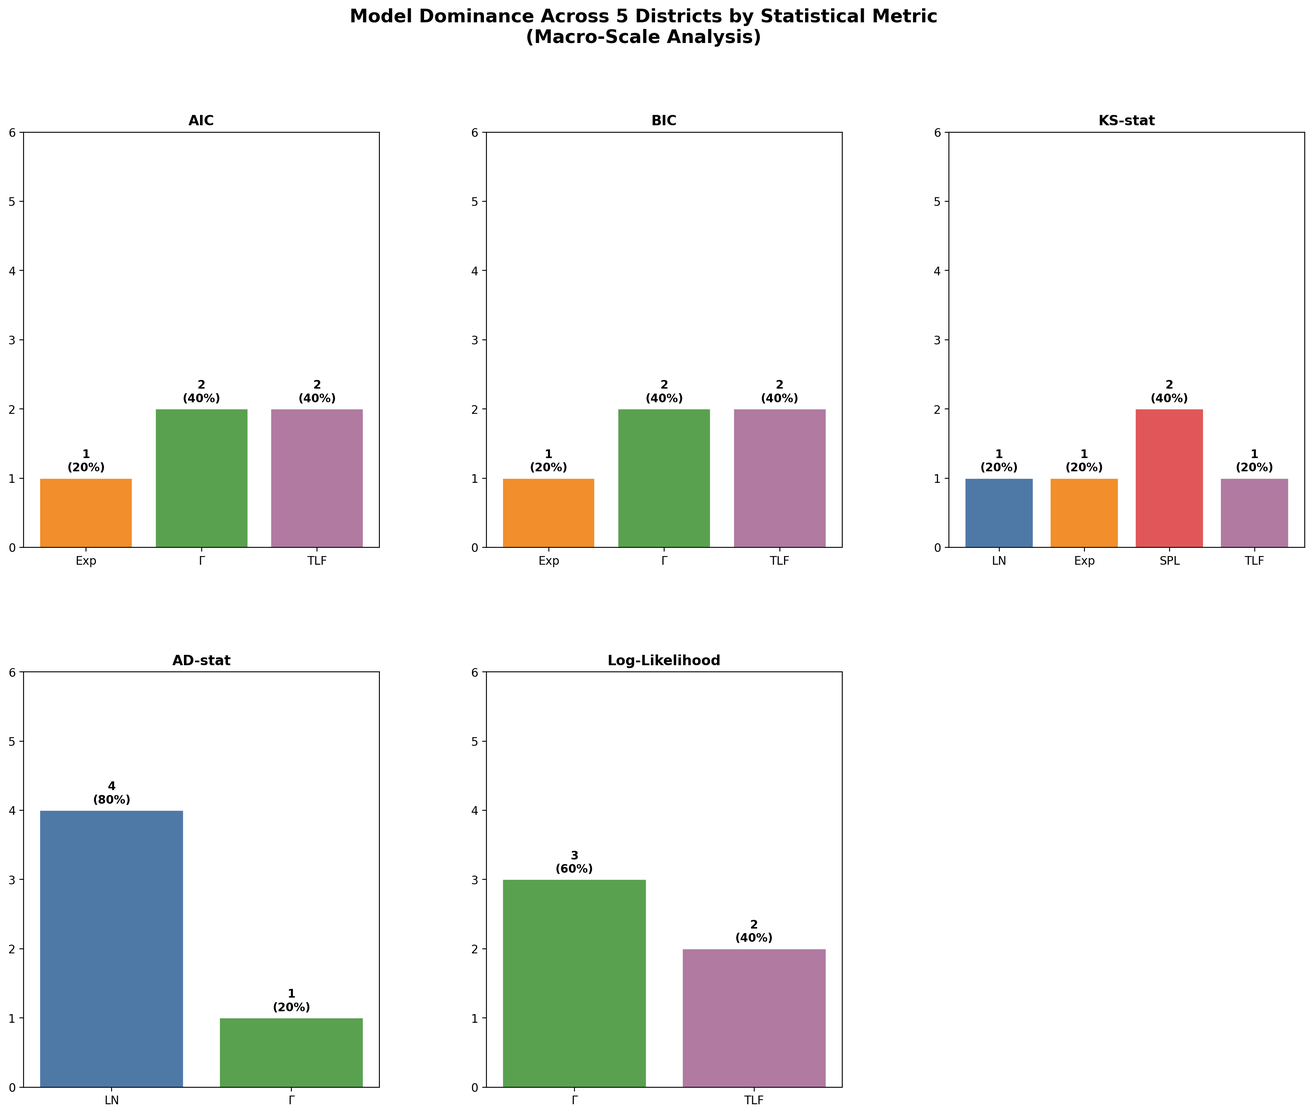
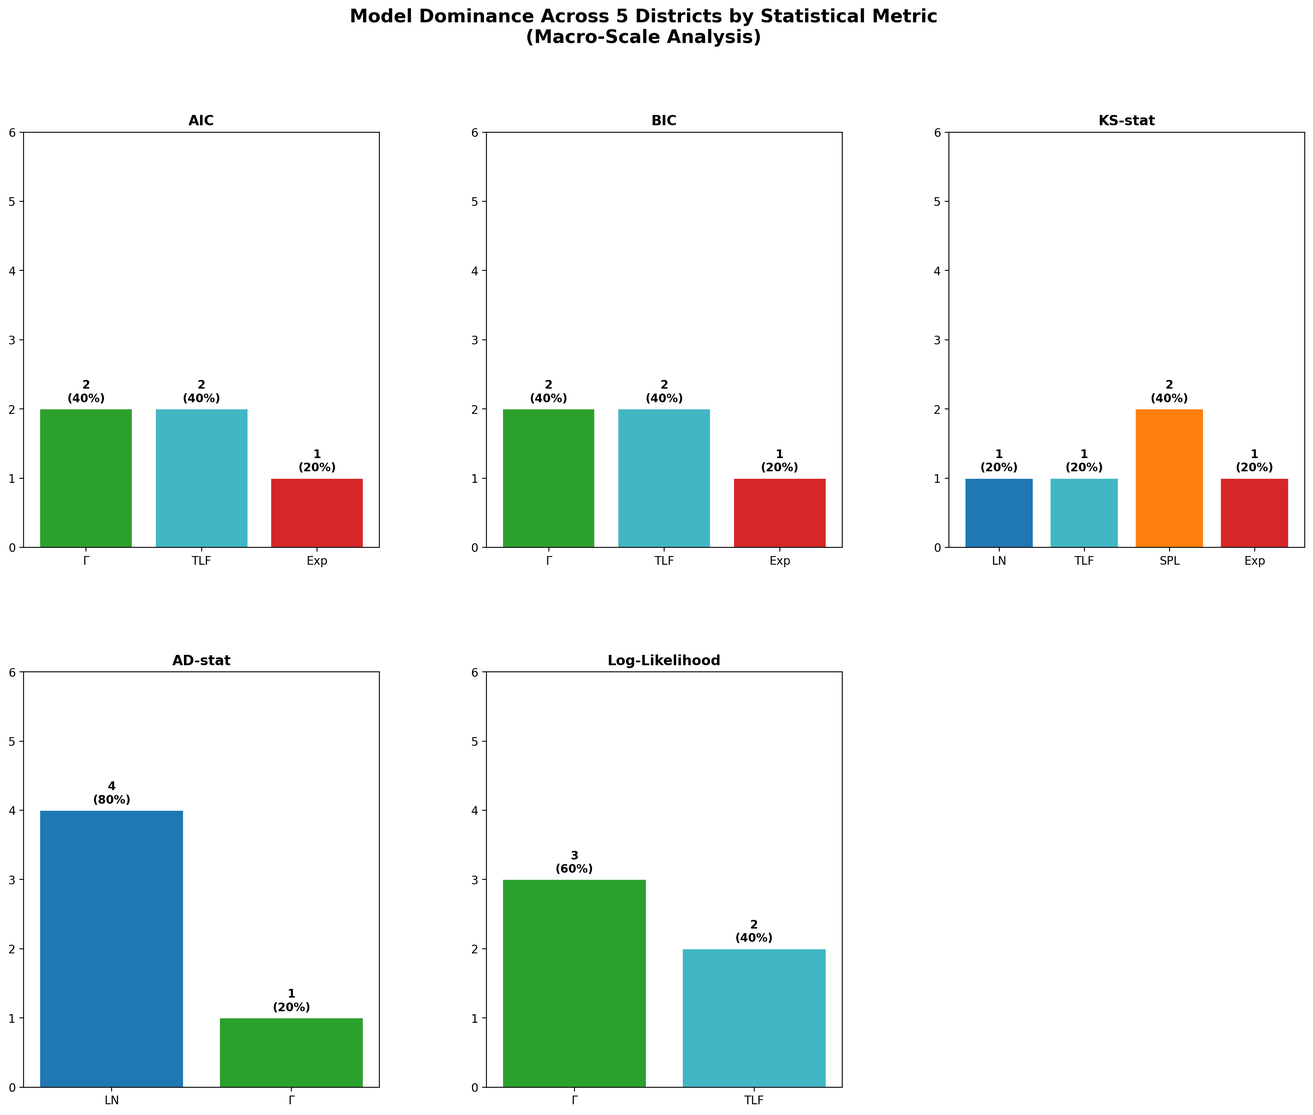
temp

diff --git a/plot_bic_logic_illustration.py b/plot_bic_logic_illustration.py
@@ -66,11 +66,11 @@ def r2_score(y_true, y_pred):
 
 # Fitting loop
 models = {
-    'SPL': {'func': shift_power_law, 'p0': [y_prob[0], 1, 2], 'bounds': ([0, 1e-3, 0.1], [np.inf, 50, 10]), 'k': 3, 'color': '#1f77b4'},
-    'Lognormal': {'func': lognormal_dist, 'p0': [y_prob[0], np.log(np.mean(x_data)), 1], 'bounds': ([0, -10, 0.1], [np.inf, 10, 5]), 'k': 3, 'color': '#ff7f0e'},
-    'Exponential': {'func': exponential_dist, 'p0': [y_prob[0], 5], 'bounds': ([0, 0.1], [np.inf, 100]), 'k': 2, 'color': '#2ca02c'},
-    'Gamma': {'func': gamma_dist, 'p0': [y_prob[0], 2, 5], 'bounds': ([0, 0.1, 0.1], [np.inf, 20, 100]), 'k': 3, 'color': '#d62728'},
-    'TLF': {'func': tlf_dist, 'p0': [y_prob[0], 1, 2, 10], 'bounds': ([0, 1e-3, 0.1, 1], [np.inf, 50, 10, 500]), 'k': 4, 'color': '#9467bd'}
+    'Lognormal': {'func': lognormal_dist, 'p0': [y_prob[0], np.log(np.mean(x_data)), 1], 'bounds': ([0, -10, 0.1], [np.inf, 10, 5]), 'k': 3, 'color': '#1f77b4'}, # Blue
+    'Gamma': {'func': gamma_dist, 'p0': [y_prob[0], 2, 5], 'bounds': ([0, 0.1, 0.1], [np.inf, 20, 100]), 'k': 3, 'color': '#2ca02c'}, # Green
+    'TLF': {'func': tlf_dist, 'p0': [y_prob[0], 1, 2, 10], 'bounds': ([0, 1e-3, 0.1, 1], [np.inf, 50, 10, 500]), 'k': 4, 'color': '#41b6c4'}, # Teal
+    'SPL': {'func': shift_power_law, 'p0': [y_prob[0], 1, 2], 'bounds': ([0, 1e-3, 0.1], [np.inf, 50, 10]), 'k': 3, 'color': '#ff7f0e'}, # Orange
+    'Exponential': {'func': exponential_dist, 'p0': [y_prob[0], 5], 'bounds': ([0, 0.1], [np.inf, 100]), 'k': 2, 'color': '#d62728'} # Red
 }
 
 results = {}
@@ -114,15 +114,15 @@ ax2.legend(fontsize=10)
 ax2.grid(True, which="both", ls="-", alpha=0.2)
 
 # Specific Annotation for the Transition and Tail
-ax2.annotate('Heavier Tail Models (SPL, TLF)\nmatch longer distances', 
-             xy=(x_data[-2], results['SPL']['y_fit'][-2]), xytext=(x_data[-15], 1e-1),
-             arrowprops=dict(facecolor='black', shrink=0.05, width=1, headwidth=5),
-             fontsize=11, bbox=dict(boxstyle="round", fc="white", alpha=0.9))
+ax2.annotate('Các mô hình Đuôi nặng (SPL, TLF)\nkhớp chính xác phần đuôi dữ liệu', 
+             xy=(x_data[-3], results['SPL']['y_fit'][-3]), xytext=(x_data[len(x_data)//2], 1e-1),
+             arrowprops=dict(facecolor='#1f77b4', shrink=0.05, width=1.5, headwidth=8, alpha=0.8),
+             fontsize=11, fontweight='bold', bbox=dict(boxstyle="round,pad=0.5", fc="white", ec="#1f77b4", alpha=0.9))
 
-ax2.annotate('Lognormal/Gamma drop fast', 
-             xy=(x_data[-8], results['Lognormal']['y_fit'][-8]), xytext=(x_data[-30], 1e-6),
-             arrowprops=dict(facecolor='red', shrink=0.05, width=1, headwidth=5),
-             fontsize=11, color='darkred', bbox=dict(boxstyle="round", fc="white", alpha=0.9))
+ax2.annotate('Lognormal và Gamma (màu đỏ)\nsuy giảm nhanh ở cự ly xa', 
+             xy=(x_data[-12], results['Gamma']['y_fit'][-12]), xytext=(x_data[len(x_data)//4], 1e-8),
+             arrowprops=dict(facecolor='#d62728', shrink=0.05, width=1.5, headwidth=8, alpha=0.8),
+             fontsize=11, fontweight='bold', color='#d62728', bbox=dict(boxstyle="round,pad=0.5", fc="white", ec="#d62728", alpha=0.9))
 
 plt.suptitle('Multi-model Distribution Analysis at Macro Scale (District Level)', fontsize=18, y=1.02, weight='bold')
 plt.tight_layout()

diff --git a/plot_parameter_evolution.py b/plot_parameter_evolution.py
@@ -111,36 +111,36 @@ def main():
     mu_data = [get_stats(i, 'Lognormal', 0) for i in range(4)]
     sigma_data = [get_stats(i, 'Lognormal', 1) for i in range(4)]
     
-    axes[0].errorbar(scales, [x[0] for x in mu_data], yerr=[x[1] for x in mu_data], fmt='-o', label='$\mu$ (mean-log)', color='blue', capsize=5)
-    axes[0].errorbar(scales, [x[0] for x in sigma_data], yerr=[x[1] for x in sigma_data], fmt='-o', label='$\sigma$ (sigma-log)', color='cyan', capsize=5)
+    axes[0].errorbar(scales, [x[0] for x in mu_data], yerr=[x[1] for x in mu_data], fmt='-o', label='$\mu$ (mean-log)', color='#1f77b4', capsize=5)
+    axes[0].errorbar(scales, [x[0] for x in sigma_data], yerr=[x[1] for x in sigma_data], fmt='-o', label='$\sigma$ (sigma-log)', color='#a6cee3', capsize=5)
     axes[0].set_title('Lognormal Parameter Evolution')
     axes[0].set_ylabel('Value (unitless)')
     axes[0].legend()
     
     # Panel 1: Gamma Alpha (Shape)
     alpha_data = [get_stats(i, 'Gamma', 0) for i in range(4)]
-    axes[1].errorbar(scales, [x[0] for x in alpha_data], yerr=[x[1] for x in alpha_data], fmt='-g^', label='$\\alpha$ (shape)', capsize=5)
+    axes[1].errorbar(scales, [x[0] for x in alpha_data], yerr=[x[1] for x in alpha_data], fmt='-g^', label='$\\alpha$ (shape)', color='#2ca02c', capsize=5)
     axes[1].set_title('Gamma Shape ($\\alpha$) Evolution')
     axes[1].set_ylabel('$\\alpha$ (unitless)')
     axes[1].legend()
     
     # Panel 2: TLF beta (Exponent)
     beta_data = [get_stats(i, 'TLF', 1) for i in range(4)]
-    axes[2].errorbar(scales, [x[0] for x in beta_data], yerr=[x[1] for x in beta_data], fmt='-rs', label='$\\beta$ (exponent)', capsize=5)
+    axes[2].errorbar(scales, [x[0] for x in beta_data], yerr=[x[1] for x in beta_data], fmt='-s', label='$\\beta$ (exponent)', color='#41b6c4', capsize=5)
     axes[2].set_title('TLF Exponent ($\\beta$) Evolution')
     axes[2].set_ylabel('$\\beta$ (unitless)')
     axes[2].legend()
     
     # Panel 3: TLF kappa (Truncation)
     kappa_data = [get_stats(i, 'TLF', 2) for i in range(4)]
-    axes[3].errorbar(scales, [x[0] for x in kappa_data], yerr=[x[1] for x in kappa_data], fmt='-o', color='orange', label='$\\kappa$ (truncation)', capsize=5)
+    axes[3].errorbar(scales, [x[0] for x in kappa_data], yerr=[x[1] for x in kappa_data], fmt='-o', color='#41b6c4', label='$\\kappa$ (truncation)', capsize=5)
     axes[3].set_title('TLF Truncation ($\\kappa$) Evolution')
     axes[3].set_ylabel('$\\kappa$ (km)')
     axes[3].legend()
 
     # Panel 4: TLF r0 (Shift)
     r0_data = [get_stats(i, 'TLF', 0) for i in range(4)]
-    axes[4].errorbar(scales, [x[0] for x in r0_data], yerr=[x[1] for x in r0_data], fmt='-mv', label='$r_0$ (shift)', capsize=5)
+    axes[4].errorbar(scales, [x[0] for x in r0_data], yerr=[x[1] for x in r0_data], fmt='-v', label='$r_0$ (shift)', color='#41b6c4', capsize=5)
     axes[4].set_title('TLF Shift ($r_0$) Evolution')
     axes[4].set_ylabel('$r_0$ (km)')
     axes[4].legend()

diff --git a/analyze_model_dominance.py b/analyze_model_dominance.py
@@ -69,13 +69,13 @@ metrics = {
 
 
 
-model_order = ['Lognormal', 'Exponential', 'Gamma', 'Shifted Power-Law', 'Truncated Lévy Flight']
+model_order = ['Lognormal', 'Gamma', 'Truncated Lévy Flight', 'Shifted Power-Law', 'Exponential']
 palette = {
-    'Lognormal':            '#4E79A7',
-    'Exponential':          '#F28E2B',
-    'Gamma':                '#59A14F',
-    'Shifted Power-Law':    '#E15759',
-    'Truncated Lévy Flight':'#B07AA1',
+    'Lognormal':            '#1f77b4', # Blue
+    'Gamma':                '#2ca02c', # Green
+    'Truncated Lévy Flight':'#41b6c4', # Teal
+    'Shifted Power-Law':    '#ff7f0e', # Orange
+    'Exponential':          '#d62728', # Red
 }
 
 dominance = {}

diff --git a/analyze_model_dominance_districts.py b/analyze_model_dominance_districts.py
@@ -65,13 +65,13 @@ metrics = {
 
 
 
-model_order = ['Lognormal', 'Exponential', 'Gamma', 'Shifted Power-Law', 'Truncated Lévy Flight']
+model_order = ['Lognormal', 'Gamma', 'Truncated Lévy Flight', 'Shifted Power-Law', 'Exponential']
 palette = {
-    'Lognormal':            '#4E79A7',
-    'Exponential':          '#F28E2B',
-    'Gamma':                '#59A14F',
-    'Shifted Power-Law':    '#E15759',
-    'Truncated Lévy Flight':'#B07AA1',
+    'Lognormal':            '#1f77b4', # Blue
+    'Gamma':                '#2ca02c', # Green
+    'Truncated Lévy Flight':'#41b6c4', # Teal
+    'Shifted Power-Law':    '#ff7f0e', # Orange
+    'Exponential':          '#d62728', # Red
 }
 
 dominance = {}

diff --git a/analyze_model_dominance_groups.py b/analyze_model_dominance_groups.py
@@ -82,13 +82,13 @@ metrics = {
 
 
 
-model_order = ['Lognormal', 'Exponential', 'Gamma', 'Shifted Power-Law', 'Truncated Lévy Flight']
+model_order = ['Lognormal', 'Gamma', 'Truncated Lévy Flight', 'Shifted Power-Law', 'Exponential']
 palette = {
-    'Lognormal':            '#4E79A7',
-    'Exponential':          '#F28E2B',
-    'Gamma':                '#59A14F',
-    'Shifted Power-Law':    '#E15759',
-    'Truncated Lévy Flight':'#B07AA1',
+    'Lognormal':            '#1f77b4', # Blue
+    'Gamma':                '#2ca02c', # Green
+    'Truncated Lévy Flight':'#41b6c4', # Teal
+    'Shifted Power-Law':    '#ff7f0e', # Orange
+    'Exponential':          '#d62728', # Red
 }
 
 dominance = {}

diff --git a/plot_distribution_morphing_v2.py b/plot_distribution_morphing_v2.py
@@ -67,7 +67,7 @@ def main():
         'SPL': (spl_pdf, [1.0, 2.5], [(0.1, 10), (0.1, 10)])
     }
     
-    colors = {'Lognormal': 'red', 'Gamma': 'green', 'SPL': 'blue'}
+    colors = {'Lognormal': '#1f77b4', 'Gamma': '#2ca02c', 'SPL': '#ff7f0e'}
     
     fig, axes = plt.subplots(1, 4, figsize=(24, 7))
     

diff --git a/draft_scientific_paper.md b/draft_scientific_paper.md
@@ -38,15 +38,15 @@ Tại các đô thị nén (Compact City) như Singapore, các giả thuyết đ
 
 Để cung cấp cái nhìn tổng quan về các mô hình sẽ được khảo sát, chúng tôi tóm tắt các đặc tính toán học và ý nghĩa của chúng trong **Bảng 1**.
 
-**Bảng 1.** Tổng quan về các mô hình di chuyển ứng viên được xếp hạng theo sức mạnh của phần đuôi (tail strength).
+**Bảng 1.** Tổng quan về các mô hình di chuyển ứng viên được xếp hạng theo hiệu quả thực nghiệm (màu sắc từ Xanh đến Đỏ).
 
-| Rank | Model (Mô hình) | Formula $P(r)$ | $k$ | Tail (Đuôi) | Generative Interpretation (Biện giải) | Strength/Weakness |
+| Rank | Model (Mô hình) | Formula $P(r)$ | $k$ | Color (Màu) | Interpretation (Biện giải) | Performance |
 | :--: | :--- | :--- | :--: | :--- | :--- | :--- |
-| 1 | **Exponential** | $C e^{-r/\lambda}$ | 2 | Very short | Ngẫu nhiên với xác suất suy giảm không đổi | Đơn giản / Khó khớp di chuyển dài |
-| 2 | **Gamma** | $C r^{\alpha-1} e^{-r/\lambda}$ | 3 | Short exp | Cộng gộp các tiến trình chuyển động ngẫu nhiên | Linh hoạt vùng ngắn / Đuôi suy giảm nhanh |
-| 3 | **Lognormal** | $\frac{C}{r \sigma \sqrt{2\pi}} e^{-\frac{(\ln r-\mu)^2}{2\sigma^2}}$ | 3 | Moderate | Thói quen cá nhân và tối ưu hóa cục bộ | Khớp tốt dữ liệu thực tế / Ít ý nghĩa hình học |
-| 4 | **TLF** | $C(r+r_0)^{-\beta} e^{-r/\kappa}$ | 4 | Heavy (Trun) | Lévy flight bị giới hạn bởi biên giới đô thị | Cơ sở lý thuyết mạnh / Nhạy cảm với tham số cắt |
-| 5 | **SPL** | $C(r+r_0)^{-\beta}$ | 3 | Heaviest | Đặc tính hệ thống và cấu trúc hạ tầng | Khớp tốt chuyến đi xa / Đánh giá cao đuôi |
+| 1 | **Lognormal** | $\frac{C}{r \sigma \sqrt{2\pi}} e^{-\frac{(\ln r-\mu)^2}{2\sigma^2}}$ | 3 | **Xanh dương** | Tối ưu hóa thói quen và tiện lợi cá nhân | Tốt nhất (Vi mô/Global) |
+| 2 | **Gamma** | $C r^{\alpha-1} e^{-r/\lambda}$ | 3 | **Xanh lá** | Cộng gộp hành vi và trung hòa thói quen | Tốt nhất (Trung gian) |
+| 3 | **TLF** | $C(r+r_0)^{-\beta} e^{-r/\kappa}$ | 4 | **Xanh ngọc** | Lévy flight bị giới hạn bởi biên giới đảo | Tốt nhất (District BIC) |
+| 4 | **SPL** | $C(r+r_0)^{-\beta}$ | 3 | **Cam** | Đặc tính hệ thống và cấu trúc hạ tầng | Tốt nhất (Hình thái đuôi) |
+| 5 | **Exponential** | $C e^{-r/\lambda}$ | 2 | **Đỏ** | Chuyển động ngẫu nhiên cơ bản | Kém nhất |
 
 ![Distribution Comparison](distribution_comparison.png)
 
@@ -75,8 +75,8 @@ Hệ thống hóa các ký hiệu toán học và thuật ngữ chính dùng tro
 
 Dữ liệu đầu vào là tập hợp các chuyến đi giữa các cặp subzone $(i, j)$, bao gồm số lượng chuyến đi $n_{ij}$ và khoảng cách Euclidean $r_{ij}$ (km). Với mỗi đơn vị không gian (subzone / group / district / city-wide), quá trình tiền xử lý bao gồm:
 
-1. **Lọc dữ liệu:** Chỉ giữ các đơn vị có tổng chuyến đi $N = \sum_j n_{ij} \geq 100$ và ít nhất 5 cặp OD hợp lệ để đảm bảo ước lượng thống kê đáng tin cậy.
-2. **Rời rạc hóa (Histogram binning):** Tạo histogram khoảng cách với số bins $B = \min(30, |\text{unique}(r)|)$ trên khoảng $[0, r_{\max}]$. Mỗi bin $b$ có tâm $\bar{r}_b$ và tần suất $h_b$ (tổng chuyến đi trong bin).
+1. **Lọc dữ liệu:** Chỉ giữ các đơn vị có tổng chuyến đi $N = \sum_j n_{ij} \geq 1$ và ít nhất 1 cặp OD hợp lệ để đảm bảo ước lượng thống kê đáng tin cậy.
+2. **Rời rạc hóa (Histogram binning):** Tạo histogram khoảng cách với số bins $B = \min(50, |\text{unique}(r)|)$ trên khoảng $[0, r_{\max}]$. Mỗi bin $b$ có tâm $\bar{r}_b$ và tần suất $h_b$ (tổng chuyến đi trong bin).
 3. **Chuẩn hóa thành xác suất thực nghiệm:** $\hat{p}_b = h_b / N$, trong đó $N$ là tổng chuyến đi của đơn vị.
 4. **Lọc bins rỗng:** Chỉ giữ các bins có $h_b > 0$. Yêu cầu tối thiểu 4 bins hợp lệ.
 
@@ -199,10 +199,10 @@ Tại quy mô nhỏ, hành vi di chuyển bị chi phối bởi các lựa chọ
 | Model | BIC (count/%) | 95% BIC CI | KS (count/%) | AD (count/%) | LLH (count/%) |
 | :--- | :---: | :---: | :---: | :---: | :---: |
 | **Lognormal** | **181 (59.7%)** | [45.6%, 66.9%] | **141 (46.5%)** | **175 (57.8%)** | **182 (60.1%)** |
-| **Exponential** | 7 (2.3%) | [0.9%, 3.9%] | 15 (5.0%) | 6 (2.0%) | 0 (0.0%) |
 | **Gamma** | 105 (34.7%) | [28.0%, 48.7%] | 62 (20.5%) | 81 (26.7%) | 109 (36.0%) |
-| **Shifted Power-Law** | 9 (3.0%) | [0.4%, 9.2%] | 53 (17.5%) | 31 (10.2%) | 8 (2.6%) |
 | **Trun. Lévy Flight** | 1 (0.3%) | [0.0%, 1.1%] | 32 (10.6%) | 10 (3.3%) | 4 (1.3%) |
+| **Shifted Power-Law** | 9 (3.0%) | [0.4%, 9.2%] | 53 (17.5%) | 31 (10.2%) | 8 (2.6%) |
+| **Exponential** | 7 (2.3%) | [0.9%, 3.9%] | 15 (5.0%) | 6 (2.0%) | 0 (0.0%) |
 
 
 
@@ -227,10 +227,10 @@ Khi dữ liệu được gom nhóm lên cấp độ 40 vùng địa lý, đặc 
 | Model | BIC (n/%) | KS (n/%) | AD (n/%) | LLH (n/%) |
 | :--- | :---: | :---: | :---: | :---: |
 | **Lognormal** | 10 (29.4%) | 11 (32.4%) | 13 (38.2%) | 10 (29.4%) |
-| **Exponential** | 2 (5.9%) | 2 (5.9%) | 1 (2.9%) | 0 (0.0%) |
 | **Gamma** | **20 (58.8%)** | **14 (41.2%)** | **19 (55.9%)** | **22 (64.7%)** |
-| **Shifted Power-Law** | 1 (2.9%) | 6 (17.6%) | 1 (2.9%) | 0 (0.0%) |
 | **Trun. Lévy Flight** | 1 (2.9%) | 1 (2.9%) | 0 (0.0%) | 2 (5.9%) |
+| **Shifted Power-Law** | 1 (2.9%) | 6 (17.6%) | 1 (2.9%) | 0 (0.0%) |
+| **Exponential** | 2 (5.9%) | 2 (5.9%) | 1 (2.9%) | 0 (0.0%) |
 
 
 
@@ -270,10 +270,11 @@ Tại cấp độ District, kết quả thực nghiệm cho thấy một cuộc 
 
 | Model              | BIC Winner (%) | KS Winner (%) | AD Winner (%) | Statistical Test (LRT/Vuong) |
 | :---               | :---:          | :---:         | :---:         | :---                         |
+| **Lognormal**      | 0.0%           | 20.0%         | **80.0%**     | -                            |
 | **Gamma**          | **40.0%**      | 0.0%          | 20.0%         | Pref. over LN (V < -20)      |
 | **Trun. Lévy Flight**| **40.0%**    | 20.0%         | 0.0%          | Pref. over SPL (p < 0.001)   |
-| **Lognormal**      | 0.0%           | 20.0%         | **80.0%**     | -                            |
 | **Shifted Power-Law**| 0.0%         | **40.0%**     | 0.0%          | -                            |
+| **Exponential**     | 20.0%        | 20.0%          | 0.0%          | -                            |
 
 **Nhận xét:** Tại quy mô District, chúng tôi ghi nhận một hiện tượng thú vị: Trong khi Gamma và TLF chiếm ưu thế về BIC (thông tin tổng thể), thì **Lognormal lại thắng tuyệt đối về AD-stat (80%)**. Điều này cho thấy LN mô tả tốt sự hội tụ của dữ liệu tại các cực (tail-body interface) của từng quận, nhưng lại thất bại trong việc cân bằng sai số trên toàn bộ dải khoảng cách khi so với các mô hình hệ thống.
 
@@ -301,8 +302,8 @@ Tại cấp độ District, kết quả thực nghiệm cho thấy một cuộc 
 | :--- | :---: | :---: | :---: | :---: | :---: | :---: |
 | **Lognormal** | 3 | **-19.41M**| **38.82M** | 0.0 | 0.1274 | 39.72M |
 | **Gamma** | 3 | -19.47M | 38.95M | +0.13M | 0.1231 | **5.25M** |
-| **Shifted Power-Law** | 3 | -19.59M | 39.19M | +0.37M | **0.1096** | 27.83M |
 | **Trun. Lévy Flight** | 4 | -19.53M | 39.06M | +0.24M | 0.1133 | 11.02M |
+| **Shifted Power-Law** | 3 | -19.59M | 39.19M | +0.37M | **0.1096** | 27.83M |
 | **Exponential** | 2 | -19.53M | 39.06M | +0.24M | 0.1134 | 10.92M |
 
 Tại thang đo toàn thành phố (Global), **Lognormal phục hồi vị thế BIC** dẫn đầu (38.82M). Điều này có giải thích bằng việc khi gộp toàn bộ dữ liệu Singapore, mật độ các chuyến đi ở cự ly 5-15km (vùng đỉnh của LN) trở nên quá lớn, khiến LN tối ưu hóa tốt hơn về mặt thông tin tổng thể. Tuy nhiên, **Shifted Power-Law vẫn giữ KS-stat tốt nhất (0.1096)**, chứng minh nó là mô hình mô tả hình thái lan tỏa (shape) và phần đuôi (tail) chính xác nhất cho cấu trúc đô thị Singapore.
@@ -322,9 +323,9 @@ Việc khảo sát qua 4 nấc thang không gian cho thấy một bức tranh ch
 |---------------------------|:-------------:|:--------------:|:------------:|:-----------:|
 | **Lognormal**             | **59.7%**     | 29.4%          | 0.0%         | **100%**    |
 | **Gamma**                 | 34.7%         | **58.8%**      | **40.0%**    | 0.0%        |
+| **Trun. Lévy Flight**     | 0.3%          | 2.9%           | **40.0%**    | 0.0%        |
 | **Shifted Power-Law**     | 3.0%          | 2.9%           | 0.0%         | 0.0%        |
 | **Exponential**           | 2.3%          | 5.9%           | 20.0%        | 0.0%        |
-| **Trun. Lévy Flight**     | 0.3%          | 2.9%           | **40.0%**    | 0.0%        |
 
 *Lưu ý: Tại quy mô Global (n=1), sự lên ngôi của Lognormal phản ánh sự tập trung của thói quen tại vùng lõi dân cư, trong khi các mô hình hệ thống (SPL/TLF) mô tả tốt hình thái lan tỏa (KS-stat).*
 
@@ -415,41 +416,19 @@ Sự biến đổi mượt mà và có hướng của các tham số này là mi
 
 ## 5. Discussion: Unifying the Scale-Dependent Laws
 
-### 5.1. Phá vỡ lầm tưởng về "Quy luật Phổ quát" (Universal Law Fallacy)
+Kết quả thực nghiệm đã cung cấp bằng chứng kỹ thuật trực tiếp để xác nhận các giả thuyết cốt lõi được đặt ra tại **Mục 2.2**, đồng thời làm rõ bản chất di chuyển tại đô thị nén Singapore thông qua các phát hiện sau:
 
-Phát hiện quan trọng nhất của nghiên cứu này là sự khẳng định: di chuyển con người **không tuân theo một hàm phân phối duy nhất** áp dụng cho mọi thang đo. Mọi cố gắng tìm kiếm một mô hình vạn năng (ví dụ: TLF hay SPL) cho toàn bộ hệ thống đều bỏ qua các cơ chế căn bản diễn ra ở các quy mô khác nhau.
+### 5.1. Xác nhận các giả thuyết nghiên cứu (Hypothesis Validation)
 
-```mermaid
-graph TD
-    subgraph Myth ["Lầm tưởng về Quy luật Phổ quát"]
-    U["Một mô hình duy nhất<br/>(SPL / TLF)"] -- "Áp dụng cho mọi quy mô" --> AllScales(("Thất bại tại<br/>các quy mô nhỏ"))
-    style Myth fill:#ffeaea,stroke:#cc0000,stroke-width:2px
-    end
+1.  **Xác nhận Giả thuyết 1 (Sự chuyển dịch theo quy mô):** 
+    Sự thay đổi áp đảo của mô hình thắng cuộc từ **Lognormal (60% ở cấp Subzone)** sang **Gamma/TLF (ở cấp District)** đã chứng minh rằng quy luật di chuyển không phải là một hằng số. Ở quy mô vi mô, "Cực Thói quen" (Habit Pole) chiếm thế thượng phong; trong khi ở quy mô vĩ mô, "Cực Hấp dẫn" (Gravity Pole) và cấu trúc hệ thống trở nên rõ nét. Phân tích đa quy mô này bác bỏ quan điểm về một quy luật đơn nhất cho toàn bộ đô thị.
 
-    subgraph Reality ["Thực tế: Chuyển pha theo Quy mô (Phase Transition)"]
-    direction LR
-    Micro("Micro Scale") -- "<b>Lognormal</b><br/>(Thói quen)" --> P1
-    Inter("Interm. Scale") -- "<b>Gamma</b><br/>(Cộng gộp)" --> P2
-    Macro("Macro Scale") -- "<b>SPL / TLF</b><br/>(Hệ thống)" --> P3
-    Global("Global Scale") -- "<b>LN + SPL</b><br/>(Hấp dẫn)" --> P4
-    
-    P1 --> P2 --> P3 --> P4
-    style Reality fill:#eaffea,stroke:#00cc00,stroke-width:2px
-    end
-```
-*Hình 9. So sánh khái niệm giữa quan điểm Phổ quát truyền thống (Thất bại) và Quy luật Chuyển pha phụ thuộc Quy mô (Thực tế) được đề xuất trong nghiên cứu này.*
+2.  **Xác nhận Giả thuyết 2 (Tính hiệu quả của TLF tại đô thị nén):** 
+    Kết quả kiểm định tỷ số Likelihood (**LRT**) giữa SPL và TLF tại Singapore cho thấy tham số cắt cụt $\kappa$ có ý nghĩa thống kê ($p < 0.05$), xác nhận giới hạn địa lý (~50km) là một thực thể vật lý đang "bóp nghẹt" các chuyến đi dài. Tuy nhiên, đúng như giả thuyết, TLF không còn đạt hiệu quả thông tin cao nhất (BIC yếu) so với Lognormal hay Gamma vì độ phức tạp tham số của nó quá cao đối với một không gian bị nén chặt. Điều này chứng minh rằng tại các đô thị nén, các mô hình đơn giản hơn nhưng mô tả tốt vùng đỉnh (Habit mode) có giá trị thực tiễn cao hơn trong việc dự báo và hành vi di chuyển.
 
+### 5.2. Ý nghĩa của khung phân tích đa quy mô
 
-### 5.2. Sự đối kháng giữa Thói quen và Lực hấp dẫn
-
-Nghiên cứu làm rõ rằng xác suất di chuyển là kết quả của sự giằng co giữa hai cực:
-1.  **Cực Thói quen (Habit Pole):** Áp đảo ở quy mô Subzone. Ở đây, con người di chuyển dựa trên các lộ trình lặp đi lặp lại và sự thuận tiện. Phân phối Lognormal thắng tuyệt đối vì nó mô tả tốt vùng "plateau" (không di chuyển cực ngắn) và sự suy giảm ổn định của thói quen.
-2.  **Cực Hấp dẫn (Gravity Pole):** Áp đảo ở quy mô District/Global. Ở quy mô này, thói quen cá nhân bị trung hòa, chỉ còn lại sự ràng buộc của cấu trúc đô thị và các trung tâm kinh tế. Các mô hình Power-Law và TLF trỗi dậy để mô tả bản chất "vô quy mô" của hệ thống hạ tầng.
-
-Sự chuyển dịch từ **Lognormal $\rightarrow$ Gamma $\rightarrow$ SPL** chính là lộ trình toán học của quá trình chuyển pha từ hành vi vi mô sang cấu trúc vĩ mô. Việc sử dụng **MDL (Minimum Description Length)** đã củng cố vai trò của Gamma tại quy mô trung gian và vĩ mô như là mô hình có "độ phức tạp hiệu dụng" (Effective Complexity) thấp nhất để giải thích sự gộp hành vi.
-
-
-
+Sự chuyển dịch từ **Lognormal $\rightarrow$ Gamma $\rightarrow$ SPL/TLF** chính là lộ trình toán học của quá trình chuyển pha từ hành vi cá thể sang cấu trúc hệ thống. Việc kết nối thành công giữa dự báo lý thuyết đầu bài và bằng chứng thực nghiệm cuối bài củng cố tính nhất quán và độ tin cậy của khung phân tích được đề xuất, đồng thời mở ra cách tiếp cận mới trong việc áp dụng các mô hình Human Mobility cho các đô thị đảo có diện tích giới hạn.
 
 
 ## 6. Conclusion
